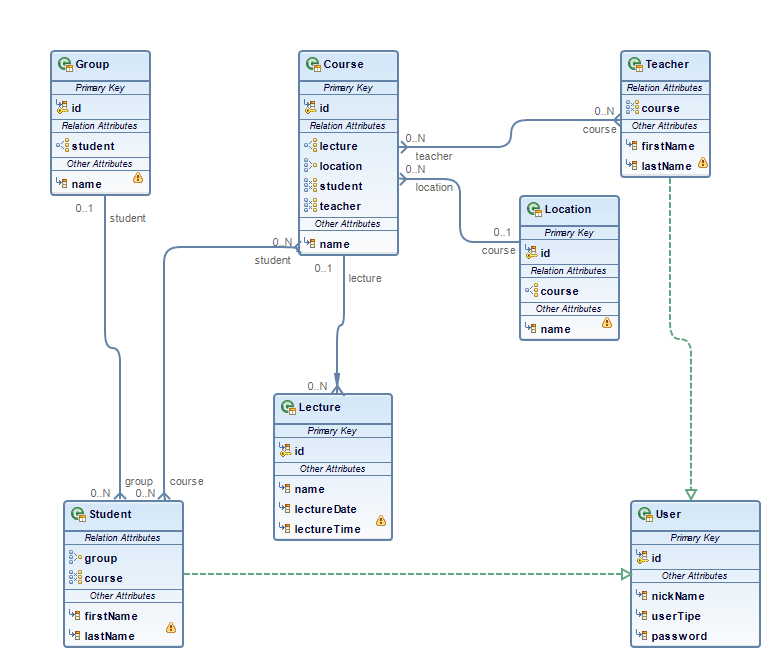
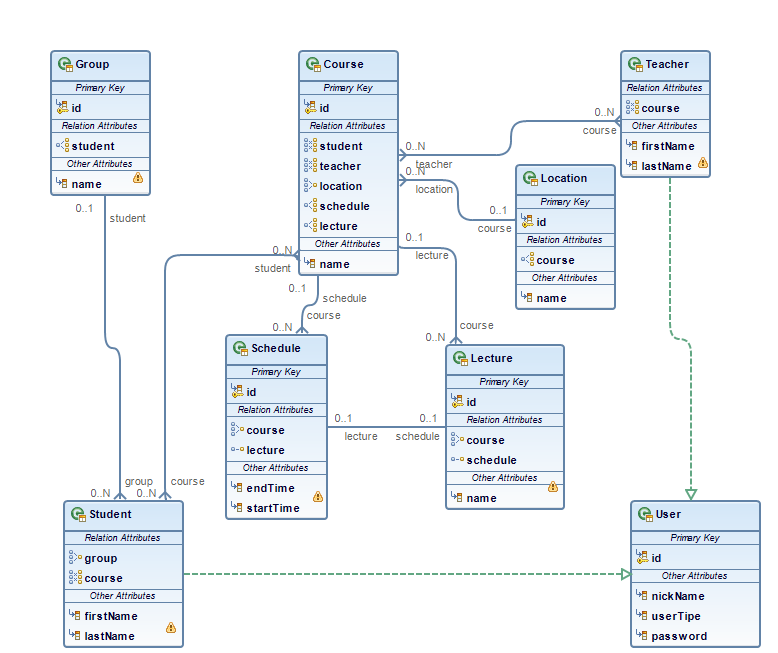
add schedule

diff --git a/UniversityAcademicPlan/src/main/java/org/persistence/Lecture.java b/UniversityAcademicPlan/src/main/java/org/persistence/Lecture.java
@@ -1,15 +1,15 @@
 package org.persistence;
 
 import java.io.Serializable;
-import java.util.Calendar;
-import java.util.Date;
 
-import javax.persistence.*;
-import static javax.persistence.TemporalType.DATE;
-import static javax.persistence.TemporalType.TIMESTAMP;
-import static javax.persistence.InheritanceType.JOINED;
-import static javax.persistence.InheritanceType.SINGLE_TABLE;
-import static javax.persistence.InheritanceType.TABLE_PER_CLASS;
+import javax.persistence.Entity;
+import javax.persistence.Id;
+import javax.persistence.ManyToOne;
+import javax.persistence.Table;
+import org.persistence.Schedule;
+import javax.persistence.OneToOne;
+import javax.persistence.Enumerated;
+import static javax.persistence.EnumType.STRING;
 
 @Entity
 @Table(name = "Lecture")
@@ -23,10 +23,10 @@ public class Lecture implements Serializable {
 	@Id
 	private long id;
 	private String name;
-	@Temporal(DATE)
-	private Calendar lectureDate;
-	@Temporal(TIMESTAMP)
-	private Date lectureTime;
+	@ManyToOne
+	private Course course;
+	@OneToOne(mappedBy = "lecture")
+	private Schedule schedule;
 
 	public long getId() {
 		return id;
@@ -44,20 +44,20 @@ public class Lecture implements Serializable {
 		this.name = param;
 	}
 
-	public Calendar getDate() {
-		return lectureDate;
+	public Course getCourse() {
+	    return course;
 	}
 
-	public void setDate(Calendar param) {
-		this.lectureDate = param;
+	public void setCourse(Course param) {
+	    this.course = param;
 	}
 
-	public Date getLectureTime() {
-		return lectureTime;
+	public Schedule getSchedule() {
+	    return schedule;
 	}
 
-	public void setLectureTime(Date param) {
-		this.lectureTime = param;
+	public void setSchedule(Schedule param) {
+	    this.schedule = param;
 	}
 
 }

diff --git a/UniversityAcademicPlan/src/main/java/org/persistence/Schedule.java b/UniversityAcademicPlan/src/main/java/org/persistence/Schedule.java
@@ -1,0 +1,79 @@
+package org.persistence;
+
+import java.io.Serializable;
+import java.time.LocalTime;
+
+import javax.persistence.Entity;
+import javax.persistence.Id;
+
+import javax.persistence.ManyToOne;
+import javax.persistence.OneToOne;
+
+@Entity
+public class Schedule implements Serializable {
+
+	private static final long serialVersionUID = 1L;
+
+	public Schedule() {
+	}
+
+	@Id
+	private long id;
+	private LocalTime startTime;
+	private LocalTime endTime;
+	private LocalTime dayOfWeek;
+	@ManyToOne
+	private Course course;
+	@OneToOne
+	private Lecture lecture;
+
+
+	public long getId() {
+		return id;
+	}
+
+	public void setId(long id) {
+		this.id = id;
+	}
+
+	public LocalTime getStartTime() {
+		return startTime;
+	}
+
+	public void setStartTime(LocalTime param) {
+		this.startTime = param;
+	}
+
+	public LocalTime getEndTime() {
+		return endTime;
+	}
+
+	public void setEndTime(LocalTime param) {
+		this.endTime = param;
+	}
+
+	public Course getCourse() {
+		return course;
+	}
+
+	public void setCourse(Course param) {
+		this.course = param;
+	}
+
+	public Lecture getLecture() {
+		return lecture;
+	}
+
+	public void setLecture(Lecture param) {
+		this.lecture = param;
+	}
+
+	public LocalTime getDayOfWeek() {
+		return dayOfWeek;
+	}
+
+	public void setDayOfWeek(LocalTime param) {
+		this.dayOfWeek = param;
+	}
+
+}

diff --git a/UniversityAcademicPlan/src/main/java/org/persistence/Course.java b/UniversityAcademicPlan/src/main/java/org/persistence/Course.java
@@ -27,10 +27,12 @@ public class Course implements Serializable {
 	private List<Student> student;
 	@ManyToMany
 	private List<Teacher> teacher;
-	@OneToMany
-	private List<Lecture> lecture;
 	@ManyToOne
 	private Location location;
+	@OneToMany(mappedBy = "course")
+	private List<Schedule> schedule;
+	@OneToMany(mappedBy = "course")
+	private List<Lecture> lecture;
 	public long getId() {
 		return id;
 	}
@@ -63,20 +65,28 @@ public class Course implements Serializable {
 	    this.teacher = param;
 	}
 
-	public List<Lecture> getLecture() {
-	    return lecture;
-	}
-
-	public void setLecture(List<Lecture> param) {
-	    this.lecture = param;
-	}
-
 	public Location getLocation() {
 	    return location;
 	}
 
 	public void setLocation(Location param) {
 	    this.location = param;
+	}
+
+	public List<Schedule> getSchedule() {
+	    return schedule;
+	}
+
+	public void setSchedule(List<Schedule> param) {
+	    this.schedule = param;
+	}
+
+	public List<Lecture> getLecture() {
+	    return lecture;
+	}
+
+	public void setLecture(List<Lecture> param) {
+	    this.lecture = param;
 	}
 
 }

diff --git a/UniversityAcademicPlan/src/main/java/org/persistence/Location.java b/UniversityAcademicPlan/src/main/java/org/persistence/Location.java
@@ -4,7 +4,6 @@ import java.io.Serializable;
 
 import javax.persistence.Entity;
 import javax.persistence.Id;
-import org.persistence.Course;
 import java.util.List;
 import javax.persistence.OneToMany;
 
